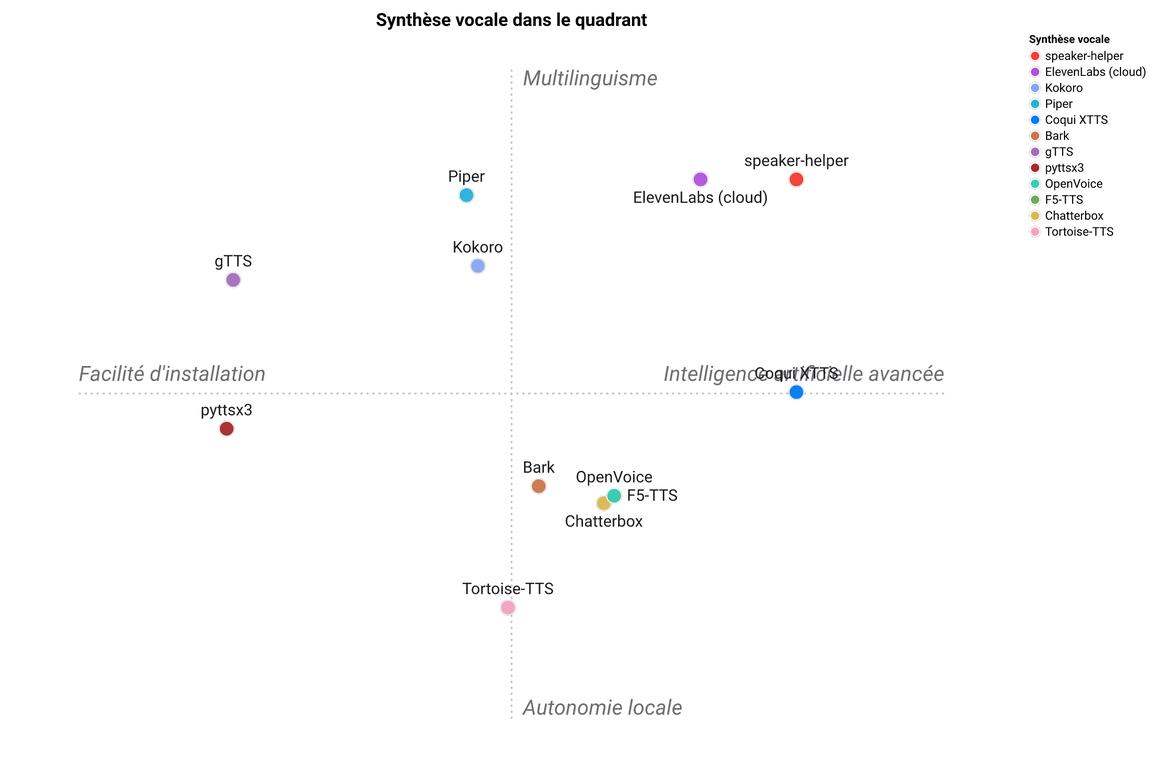
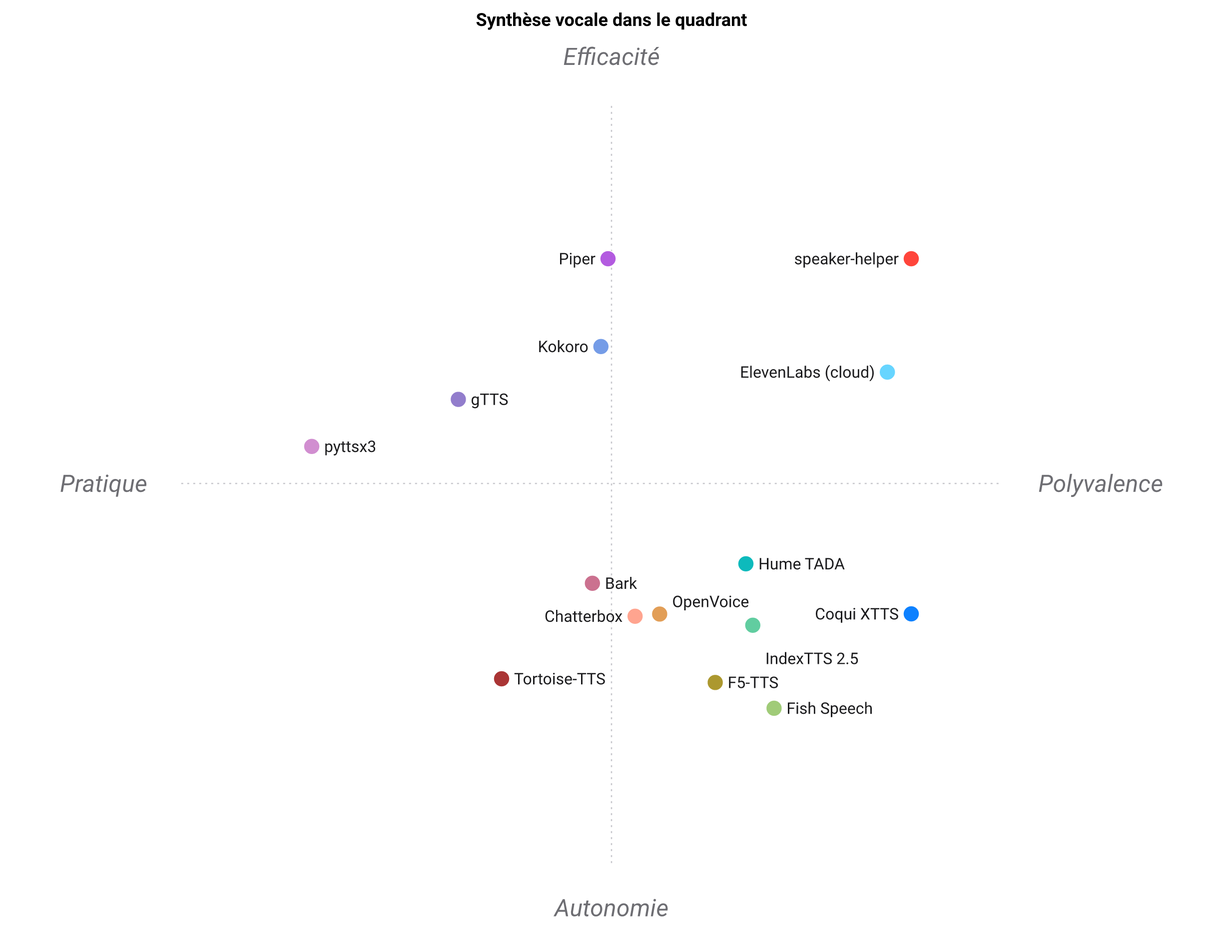
Paysage TTS : la licence devient un critère, plus trois moteurs de 2026
Le tableau datait du 2026-07-24 et n'avait aucun critère de licence, dans un
domaine où les moteurs qui clonent le mieux sont largement ceux qu'on n'a pas
le droit de livrer. Cette absence avait déjà produit une erreur dans la doc
publiée : « Coqui XTTS — vous voulez un seul moteur de clonage multilingue
solide et permissif » alors que les poids de XTTS v2 sont sous CPML, non
commerciale. Une affirmation de licence fausse est la seule erreur de ce
fichier qui puisse coûter de l'argent à quelqu'un : corrigée.

Ajout du critère « Licence commerciale » sur les quinze outils, chaque licence
vérifiée : Kokoro, Tortoise et IndexTTS 2.5 en Apache-2.0 ; Piper, OpenVoice v2,
Bark et Chatterbox en MIT, ce dernier avec sortie tatouée ; XTTS v2 en CPML,
F5-TTS avec des poids CC-BY-NC, Fish Speech S2 Pro non commercial ; TADA en
code MIT sur des poids Llama 3.2, d'où un 4 plutôt qu'un 5. gTTS garde un 2 :
code MIT sur un point d'entrée Google non documenté, soit un risque de CGU
plutôt qu'une licence.

Entrent Hume TADA, IndexTTS 2.5 et Fish Speech. L'idée que TADA apporte vaut
d'être retenue : générer texte et audio dans un seul flux synchronisé fait de
l'absence d'hallucination une propriété de conception, pas un score de
benchmark, à un facteur temps réel voisin de 0,09.

Nouvelle section « Sources et date de relevé » dans les deux langues, cinq
références. Un relevé de licences sans date de vérification ne permet pas de
dire s'il est encore vrai.

diff --git a/PAYSAGE.md b/PAYSAGE.md
@@ -7,7 +7,7 @@ l'espace « synthèse vocale locale et auto-hébergeable avec clonage de voix »
 comparés à `speaker-helper`. Les notes vont de ⭐ (1) à ⭐⭐⭐⭐⭐ (5), évaluées
 sur la tâche visée par `speaker-helper` : une synthèse vocale professionnelle
 qui tourne **hors-ligne sur un moteur local**, streame avec un faible temps
-jusqu'au premier son, **clone une voix** depuis une courte référence, et
+jusqu'au premier son, **clone une voix** depuis une courte référence et
 s'intègre à un pipeline d'IA via une API typée `dict`/`path` exposée sur
 plusieurs surfaces à la fois. Un projet optimisé pour un tout autre usage (une
 API cloud, une seule voix système, un checkpoint de recherche) n'est pas
@@ -16,20 +16,23 @@ pénalisé dans l'absolu : la note reflète seulement l'adéquation à *ce* cré
 ## En un coup d'œil
 
 <!-- TABLE:START -->
-| Synthèse vocale | Hors-ligne / local | Streaming | Clonage de voix | Multilingue | Ergonomie pipeline IA | Multi-surface | Installation légère |
-| --- | :---: | :---: | :---: | :---: | :---: | :---: | :---: |
-| **speaker-helper** | ⭐⭐⭐⭐⭐ | ⭐⭐⭐⭐⭐ | ⭐⭐⭐⭐⭐ | ⭐⭐⭐⭐⭐ | ⭐⭐⭐⭐⭐ | ⭐⭐⭐⭐⭐ | ⭐⭐⭐ |
-| Coqui XTTS | ⭐⭐⭐⭐⭐ | ⭐⭐⭐⭐ | ⭐⭐⭐⭐⭐ | ⭐⭐⭐⭐⭐ | ⭐⭐⭐ | ⭐ | ⭐ |
-| Piper | ⭐⭐⭐⭐⭐ | ⭐⭐⭐⭐ | ⭐ | ⭐⭐⭐⭐ | ⭐⭐⭐ | ⭐⭐ | ⭐⭐⭐⭐⭐ |
-| Kokoro | ⭐⭐⭐⭐⭐ | ⭐⭐⭐⭐ | ⭐ | ⭐⭐⭐⭐ | ⭐⭐⭐ | ⭐ | ⭐⭐⭐⭐ |
-| Chatterbox | ⭐⭐⭐⭐⭐ | ⭐⭐⭐ | ⭐⭐⭐⭐⭐ | ⭐⭐⭐ | ⭐⭐ | ⭐ | ⭐⭐ |
-| F5-TTS | ⭐⭐⭐⭐⭐ | ⭐⭐ | ⭐⭐⭐⭐⭐ | ⭐⭐⭐⭐ | ⭐⭐ | ⭐ | ⭐⭐ |
-| OpenVoice | ⭐⭐⭐⭐⭐ | ⭐⭐ | ⭐⭐⭐⭐⭐ | ⭐⭐⭐⭐ | ⭐⭐ | ⭐ | ⭐⭐ |
-| Bark | ⭐⭐⭐⭐⭐ | ⭐⭐ | ⭐⭐ | ⭐⭐⭐⭐ | ⭐⭐ | ⭐ | ⭐ |
-| Tortoise-TTS | ⭐⭐⭐⭐⭐ | ⭐ | ⭐⭐⭐⭐ | ⭐⭐ | ⭐⭐ | ⭐ | ⭐ |
-| pyttsx3 | ⭐⭐⭐⭐⭐ | ⭐ | ⭐ | ⭐⭐ | ⭐⭐ | ⭐ | ⭐⭐⭐⭐⭐ |
-| gTTS | ⭐ | ⭐ | ⭐ | ⭐⭐⭐⭐ | ⭐⭐ | ⭐ | ⭐⭐⭐⭐⭐ |
-| ElevenLabs (cloud) | ⭐ | ⭐⭐⭐⭐⭐ | ⭐⭐⭐⭐⭐ | ⭐⭐⭐⭐⭐ | ⭐⭐⭐ | ⭐⭐ | ⭐⭐⭐ |
+| Synthèse vocale | Hors-ligne / local | Streaming | Clonage de voix | Multilingue | Ergonomie pipeline IA | Multi-surface | Installation légère | Licence commerciale |
+| --- | :---: | :---: | :---: | :---: | :---: | :---: | :---: | :---: |
+| **speaker-helper** | ⭐⭐⭐⭐⭐ | ⭐⭐⭐⭐⭐ | ⭐⭐⭐⭐⭐ | ⭐⭐⭐⭐⭐ | ⭐⭐⭐⭐⭐ | ⭐⭐⭐⭐⭐ | ⭐⭐⭐ | ⭐⭐⭐⭐⭐ |
+| Coqui XTTS | ⭐⭐⭐⭐⭐ | ⭐⭐⭐⭐ | ⭐⭐⭐⭐⭐ | ⭐⭐⭐⭐⭐ | ⭐⭐⭐ | ⭐ | ⭐ | ⭐ |
+| Piper | ⭐⭐⭐⭐⭐ | ⭐⭐⭐⭐ | ⭐ | ⭐⭐⭐⭐ | ⭐⭐⭐ | ⭐⭐ | ⭐⭐⭐⭐⭐ | ⭐⭐⭐⭐⭐ |
+| Kokoro | ⭐⭐⭐⭐⭐ | ⭐⭐⭐⭐ | ⭐ | ⭐⭐⭐⭐ | ⭐⭐⭐ | ⭐ | ⭐⭐⭐⭐ | ⭐⭐⭐⭐⭐ |
+| Chatterbox | ⭐⭐⭐⭐⭐ | ⭐⭐⭐ | ⭐⭐⭐⭐⭐ | ⭐⭐⭐ | ⭐⭐ | ⭐ | ⭐⭐ | ⭐⭐⭐⭐⭐ |
+| F5-TTS | ⭐⭐⭐⭐⭐ | ⭐⭐ | ⭐⭐⭐⭐⭐ | ⭐⭐⭐⭐ | ⭐⭐ | ⭐ | ⭐⭐ | ⭐ |
+| OpenVoice | ⭐⭐⭐⭐⭐ | ⭐⭐ | ⭐⭐⭐⭐⭐ | ⭐⭐⭐⭐ | ⭐⭐ | ⭐ | ⭐⭐ | ⭐⭐⭐⭐⭐ |
+| Hume TADA | ⭐⭐⭐⭐⭐ | ⭐⭐⭐⭐⭐ | ⭐⭐⭐⭐ | ⭐⭐⭐⭐ | ⭐⭐ | ⭐ | ⭐⭐ | ⭐⭐⭐⭐ |
+| IndexTTS 2.5 | ⭐⭐⭐⭐⭐ | ⭐⭐⭐⭐ | ⭐⭐⭐⭐⭐ | ⭐⭐⭐⭐ | ⭐⭐ | ⭐ | ⭐ | ⭐⭐⭐⭐⭐ |
+| Fish Speech | ⭐⭐⭐⭐⭐ | ⭐⭐⭐ | ⭐⭐⭐⭐⭐ | ⭐⭐⭐⭐ | ⭐⭐ | ⭐ | ⭐ | ⭐ |
+| Bark | ⭐⭐⭐⭐⭐ | ⭐⭐ | ⭐⭐ | ⭐⭐⭐⭐ | ⭐⭐ | ⭐ | ⭐ | ⭐⭐⭐⭐⭐ |
+| Tortoise-TTS | ⭐⭐⭐⭐⭐ | ⭐ | ⭐⭐⭐⭐ | ⭐⭐ | ⭐⭐ | ⭐ | ⭐ | ⭐⭐⭐⭐⭐ |
+| pyttsx3 | ⭐⭐⭐⭐⭐ | ⭐ | ⭐ | ⭐⭐ | ⭐⭐ | ⭐ | ⭐⭐⭐⭐⭐ | ⭐⭐⭐⭐⭐ |
+| gTTS | ⭐ | ⭐ | ⭐ | ⭐⭐⭐⭐ | ⭐⭐ | ⭐ | ⭐⭐⭐⭐⭐ | ⭐⭐ |
+| ElevenLabs (cloud) | ⭐ | ⭐⭐⭐⭐⭐ | ⭐⭐⭐⭐⭐ | ⭐⭐⭐⭐⭐ | ⭐⭐⭐ | ⭐⭐ | ⭐⭐⭐ | ⭐⭐⭐ |
 <!-- TABLE:END -->
 
 ## Carte de positionnement
@@ -39,7 +42,13 @@ Représentation 2D du tableau ci-dessus.
 
 ![Carte de positionnement](https://raw.githubusercontent.com/warith-harchaoui/speaker-helper/main/assets/paysage.png)
 
-La carte est un résumé en 2D des 7 critères : à lire comme une forme, pas comme un classement. « speaker-helper » se situe dans le coin en haut à droite. Les axes se lisent **Horizontal — Facilité d'installation ↔ Intelligence artificielle avancée** et **Vertical — Autonomie locale ↔ Multilinguisme**.
+La carte est un résumé en 2D des 8 critères : à lire comme une forme, pas comme un classement. « speaker-helper » se situe dans le coin en haut à droite. Les axes se lisent **Horizontal : Pratique ↔ Polyvalence** et **Vertical : Autonomie ↔ Efficacité**.
+
+L'axe horizontal distingue principalement les solutions qui privilégient une utilisation très ciblée et spécialisée, à gauche, de celles qui cherchent à offrir une plus grande adaptabilité et une gamme de fonctionnalités plus large, à droite. La capacité à cloner des voix, la prise en charge de plusieurs langues et la facilité de diffusion en continu sont des atouts pour les options positionnées à droite, tandis que la simplicité d'installation et une ergonomie axée sur l'intelligence artificielle, ainsi qu'une compatibilité avec différents supports, favorisent une orientation plus pragmatique à gauche. On observe que speaker-helper se distingue en tant que leader sur cet axe, mais Coqui XTTS, ElevenLabs (cloud), Fish Speech, IndexTTS 2.5, Hume TADA, F5-TTS, OpenVoice et Chatterbox se regroupent du côté de la polyvalence, tandis que pyttsx3, gTTS, Tortoise-TTS, Bark, Kokoro et Piper se positionnent du côté de la pratique.
+
+L'axe vertical oppose, quant à lui, les solutions qui mettent l'accent sur la liberté d'utilisation et l'absence de contraintes, en bas, à celles qui visent une performance et une réactivité optimales, en haut. La facilité d'installation, une ergonomie intuitive et la compatibilité multi-surface sont des facteurs clés pour les options situées en haut, tandis que la capacité à fonctionner hors-ligne, la prise en charge de plusieurs langues et une installation simplifiée sont des atouts pour celles positionnées en bas. Ici encore, speaker-helper se démarque, mais Piper, Kokoro, pyttsx3 et gTTS se regroupent du côté de l'efficacité, tandis que Fish Speech, F5-TTS, Tortoise-TTS, IndexTTS 2.5, Chatterbox, OpenVoice, Coqui XTTS, Bark, Hume TADA se positionnent du côté de l'autonomie.
+
+On remarque que plusieurs options, comme Coqui XTTS, Chatterbox, F5-TTS, OpenVoice, Hume TADA, IndexTTS 2.5 et Fish Speech, se retrouvent dans le quadrant Polyvalence-Autonomie, bien que pour des raisons légèrement différentes : certaines excellent dans la reproduction de voix variées, tandis que d'autres privilégient une installation et une utilisation simplifiées. De même, Piper, Kokoro, pyttsx3 et gTTS se regroupent dans le quadrant Pratique-Efficacité, chacun apportant une solution simple et rapide pour la synthèse vocale, mais avec des performances variables.
 <!-- FIGURE:END -->
 
 ## Positionnement
@@ -60,10 +69,11 @@ manquante) et **quatre surfaces** synchronisées : Python, CLI, REST et une GUI 
 C'est un centre de gravité différent de celui du reste du domaine :
 
 - Les **projets-modèles** — Coqui XTTS, Chatterbox, F5-TTS, OpenVoice, Bark,
-  Tortoise — sont d'excellents *moteurs*. Ils clonent bien et tournent
+  Tortoise, puis depuis 2026 Hume TADA, IndexTTS 2.5 avec Fish Speech — sont
+  d'excellents *moteurs*. Ils clonent bien et tournent
   hors-ligne, mais chacun est une bibliothèque ou un checkpoint : pas de routeur
   inter-moteurs, pas de passerelle d'éval committée, pas de trio
-  CLI/REST/GUI, et une installation `torch` lourde. speaker-helper préfère en
+  CLI/REST/GUI et une installation `torch` lourde. speaker-helper préfère en
   *piloter* plusieurs derrière son protocole plutôt que d'en concurrencer un seul.
 - Les **moteurs rapides et légers** — Piper, Kokoro — gagnent sur le poids
   d'installation et le facteur temps réel (Kokoro synthétise bien sous le temps
@@ -75,7 +85,7 @@ C'est un centre de gravité différent de celui du reste du domaine :
   seule voix système ou un aller-retour cloud, sans clonage ; ElevenLabs est
   au meilleur niveau sur le streaming et la qualité de clonage,
   mais c'est un SaaS payant : il obtient ⭐ sur « hors-ligne / local » par
-  construction, et votre texte comme votre audio de référence quittent la machine.
+  construction et votre texte comme votre audio de référence quittent la machine.
 
 Là où `speaker-helper` gagne pour son créneau :
 
@@ -86,14 +96,29 @@ Là où `speaker-helper` gagne pour son créneau :
    seuils versionnés font échouer la CI en cas de synthèse lente, d'anomalie
    audio ou d'aller-retour cassé.
 3. **Un clonage qui va au bout.** Pointez vers un enregistrement : une
-   transcription manquante est produite, et les références trop longues sont
+   transcription manquante est produite et les références trop longues sont
    tronquées et ré-alignées automatiquement.
 4. **Un cœur, quatre surfaces.** Le même `Speaker` typé est accessible depuis
    Python, une CLI argparse *et* une CLI click, une API REST et une GUI web,
    sans dérive entre elles.
 
+**La licence est une entrée de routage, pas une note de bas de page.** C'est le
+critère qui manquait au tableau jusqu'au 2026-10-23 ; il rebat les cartes :
+les moteurs qui clonent le mieux sont largement ceux que vous n'avez pas le
+droit de livrer. XTTS v2 est sous CPML, F5-TTS publie du code MIT avec des
+poids CC-BY-NC, le S2 Pro de Fish Speech est non commercial — trois moteurs
+excellents, trois moteurs inutilisables dans un produit. Ce qui reste pour un
+travail commercial est plus étroit qu'un classement par qualité ne le laisse
+croire : Kokoro (Apache-2.0), Piper, OpenVoice v2, Bark (MIT), Tortoise
+(Apache-2.0), IndexTTS 2.5 (Apache-2.0), puis Chatterbox (MIT, avec sortie
+tatouée). Hume TADA tient le milieu : code MIT sur des poids sous Llama 3.2
+Community License, permissifs jusqu'à ce que vous soyez très gros. Un routeur
+qui n'optimiserait que la qualité vous tendrait une violation de licence avec
+une justification jointe : voilà pourquoi `commercial` se place à côté de
+`condition`, comme une contrainte énoncée.
+
 Le coût honnête est le **poids d'installation** (⭐⭐⭐) : un vrai moteur réclame
-`torch`, plus `ffmpeg` et `libsndfile` pour la plomberie audio, et un Voicebox en
+`torch`, plus `ffmpeg` et `libsndfile` pour la plomberie audio et un Voicebox en
 fonctionnement. C'est le prix à payer pour être la couche pipeline par-dessus de
 vrais moteurs neuronaux plutôt qu'un passe-plat OS d'un seul fichier.
 
@@ -101,26 +126,37 @@ vrais moteurs neuronaux plutôt qu'un passe-plat OS d'un seul fichier.
 
 - **`speaker-helper`** — vous voulez une TTS hors-ligne, en streaming et
   clonable, câblée dans un pipeline d'IA : une API typée `dict`/`path`, un routeur
-  qui choisit le moteur pour vous, une passerelle d'éval en CI, et la même chose
+  qui choisit le moteur pour vous, une passerelle d'éval en CI et la même chose
   en CLI / REST / GUI. C'est le pendant naturel de `vocal-helper`
   (parole→texte) : la jambe texte→parole.
-- **Coqui XTTS** — vous voulez un seul moteur de clonage multilingue solide et
-  permissif comme bibliothèque, et vous construirez vous-même le service,
-  l'aiguillage et l'évaluation autour (ou vous laissez speaker-helper le piloter
-  derrière le protocole).
+- **Coqui XTTS** — vous voulez la plus large couverture multilingue en clonage
+  comme bibliothèque, **votre usage n'est pas commercial** (ses poids sont sous
+  CPML, pas sous une licence permissive) et vous construirez vous-même le
+  service, l'aiguillage puis l'évaluation autour (ou vous laissez
+  speaker-helper le piloter derrière le protocole).
 - **Chatterbox / F5-TTS / OpenVoice** — la fidélité du clonage prime et
   vous pouvez absorber une installation lourde et écrire la glue vous-même.
 - **Kokoro / Piper** — vous avez besoin d'une voix légère, temps réel et adaptée
-  au CPU, et vous n'avez *pas* besoin de clonage ; Kokoro est exactement ce vers
+  au CPU et vous n'avez *pas* besoin de clonage ; Kokoro est exactement ce vers
   quoi speaker-helper aiguille en conditions temps réel.
+- **Hume TADA** — vous voulez un flux qui ne peut pas halluciner : le texte avec
+  l'audio sont générés dans un seul flux synchronisé, ce qui relève de la
+  conception plutôt que d'un artefact de mesure, à un facteur temps réel voisin
+  de 0,09 et avec un contexte qui tient des minutes d'audio au lieu de
+  secondes. Lisez les termes Llama 3.2 si vous opérez à grande échelle.
+- **IndexTTS 2.5** — clonage zéro-coup avec contrôle explicite de l'émotion puis
+  de la vitesse, flux à texte synchronisé, poids en Apache-2.0 : l'option
+  permissive quand la qualité du clonage compte autant que le droit de livrer.
+- **Fish Speech** — vous vous mesurez au plafond de qualité et le travail est de
+  la recherche ou du personnel ; la licence exclut un produit.
 - **Bark / Tortoise-TTS** — génération hors-ligne expressive ou haute-fidélité
   quand la latence importe peu (Tortoise est lent, Bark ne streame pas vraiment).
 - **pyttsx3** — vous voulez une voix système entièrement hors-ligne, sans modèle,
   sans téléchargement ni clonage.
 - **gTTS** — un script jetable où un aller-retour cloud et une seule voix standard
-  suffisent, et où la confidentialité n'est pas un enjeu.
+  suffisent et où la confidentialité n'est pas un enjeu.
 - **ElevenLabs (cloud)** — qualité de streaming et de clonage au plus haut niveau
-  sans installation locale, et envoyer texte et audio de référence à une API
+  sans installation locale et envoyer texte et audio de référence à une API
   payante ne pose pas de problème.
 
 ## Pourquoi il n'y a pas de `speaker-helper-rs`
@@ -132,14 +168,14 @@ laissé de côté.
 
 Leur règle de périmètre : **envelopper un binaire système, ne pas
 réimplémenter la partie lourde.** `audio-helper-rs` porte le sondage, la
-conversion, le découpage et la concaténation par-dessus `ffmpeg`, et ne porte
+conversion, le découpage et la concaténation par-dessus `ffmpeg` et ne porte
 explicitement ni la séparation de sources Demucs ni la similarité MFCC, parce
 que les deux demandent une vraie pile d'apprentissage, disproportionnée à la
 promesse du crate. `youtube-helper-rs` enveloppe `yt-dlp` au lieu de le
 réécrire.
 
 Ici, la partie lourde est la seule partie. La synthèse, c'est de l'inférence
-ONNX plus la phonémisation espeak-ng, et il n'existe aucun binaire `kokoro` à
+ONNX plus la phonémisation espeak-ng et il n'existe aucun binaire `kokoro` à
 envelopper. Un portage voudrait dire le crate `ort` plus une liaison FFI vers
 espeak — réimplémenter précisément ce que ces crates ont décidé de ne pas
 faire.
@@ -160,3 +196,16 @@ nommer. Si cela se révèle souhaitable un jour, c'est là que ça va.
 
 Cette entrée existe pour que la question soit tranchée une fois plutôt que
 rouverte.
+
+## Sources et date de relevé
+
+Les notes des moteurs ainsi que chaque licence ci-dessus ont été vérifiées le
+**2026-10-23**. Les licences changent au fil des versions ; une affirmation
+de licence périmée est la seule erreur d'ici qui puisse coûter de l'argent à
+quelqu'un : la date fait partie de l'affirmation.
+
+- [Best open-source TTS models, compared by license](https://www.cartesia.ai/learn/open-source-tts) — Cartesia
+- [9 best open source text-to-speech models in 2026](https://www.bland.ai/blog/best-open-source-text-to-speech-model) — Bland
+- [Open-sourcing TADA](https://www.hume.ai/blog/opensource-tada) — Hume AI
+- [Faster IndexTTS-2: accelerating and streaming autoregressive zero-shot TTS](https://arxiv.org/html/2607.21042v1) — arXiv
+- [Deploying open-source TTS on GPU cloud](https://www.spheron.network/blog/deploy-open-source-tts-gpu-cloud-2026/) — Spheron

diff --git a/LANDSCAPE.md b/LANDSCAPE.md
@@ -15,20 +15,23 @@ not penalised in the abstract — the score just reflects fit to *this* niche.
 ## At a glance
 
 <!-- TABLE:START -->
-| Speech Synthesis | Offline / local | Streaming | Voice cloning | Multilingual | AI-pipeline ergonomics | Multi-surface | Light install |
-| --- | :---: | :---: | :---: | :---: | :---: | :---: | :---: |
-| **speaker-helper** | ⭐⭐⭐⭐⭐ | ⭐⭐⭐⭐⭐ | ⭐⭐⭐⭐⭐ | ⭐⭐⭐⭐⭐ | ⭐⭐⭐⭐⭐ | ⭐⭐⭐⭐⭐ | ⭐⭐⭐ |
-| Coqui XTTS | ⭐⭐⭐⭐⭐ | ⭐⭐⭐⭐ | ⭐⭐⭐⭐⭐ | ⭐⭐⭐⭐⭐ | ⭐⭐⭐ | ⭐ | ⭐ |
-| Piper | ⭐⭐⭐⭐⭐ | ⭐⭐⭐⭐ | ⭐ | ⭐⭐⭐⭐ | ⭐⭐⭐ | ⭐⭐ | ⭐⭐⭐⭐⭐ |
-| Kokoro | ⭐⭐⭐⭐⭐ | ⭐⭐⭐⭐ | ⭐ | ⭐⭐⭐⭐ | ⭐⭐⭐ | ⭐ | ⭐⭐⭐⭐ |
-| Chatterbox | ⭐⭐⭐⭐⭐ | ⭐⭐⭐ | ⭐⭐⭐⭐⭐ | ⭐⭐⭐ | ⭐⭐ | ⭐ | ⭐⭐ |
-| F5-TTS | ⭐⭐⭐⭐⭐ | ⭐⭐ | ⭐⭐⭐⭐⭐ | ⭐⭐⭐⭐ | ⭐⭐ | ⭐ | ⭐⭐ |
-| OpenVoice | ⭐⭐⭐⭐⭐ | ⭐⭐ | ⭐⭐⭐⭐⭐ | ⭐⭐⭐⭐ | ⭐⭐ | ⭐ | ⭐⭐ |
-| Bark | ⭐⭐⭐⭐⭐ | ⭐⭐ | ⭐⭐ | ⭐⭐⭐⭐ | ⭐⭐ | ⭐ | ⭐ |
-| Tortoise-TTS | ⭐⭐⭐⭐⭐ | ⭐ | ⭐⭐⭐⭐ | ⭐⭐ | ⭐⭐ | ⭐ | ⭐ |
-| pyttsx3 | ⭐⭐⭐⭐⭐ | ⭐ | ⭐ | ⭐⭐ | ⭐⭐ | ⭐ | ⭐⭐⭐⭐⭐ |
-| gTTS | ⭐ | ⭐ | ⭐ | ⭐⭐⭐⭐ | ⭐⭐ | ⭐ | ⭐⭐⭐⭐⭐ |
-| ElevenLabs (cloud) | ⭐ | ⭐⭐⭐⭐⭐ | ⭐⭐⭐⭐⭐ | ⭐⭐⭐⭐⭐ | ⭐⭐⭐ | ⭐⭐ | ⭐⭐⭐ |
+| Speech Synthesis | Offline / local | Streaming | Voice cloning | Multilingual | AI-pipeline ergonomics | Multi-surface | Light install | Commercial licence |
+| --- | :---: | :---: | :---: | :---: | :---: | :---: | :---: | :---: |
+| **speaker-helper** | ⭐⭐⭐⭐⭐ | ⭐⭐⭐⭐⭐ | ⭐⭐⭐⭐⭐ | ⭐⭐⭐⭐⭐ | ⭐⭐⭐⭐⭐ | ⭐⭐⭐⭐⭐ | ⭐⭐⭐ | ⭐⭐⭐⭐⭐ |
+| Coqui XTTS | ⭐⭐⭐⭐⭐ | ⭐⭐⭐⭐ | ⭐⭐⭐⭐⭐ | ⭐⭐⭐⭐⭐ | ⭐⭐⭐ | ⭐ | ⭐ | ⭐ |
+| Piper | ⭐⭐⭐⭐⭐ | ⭐⭐⭐⭐ | ⭐ | ⭐⭐⭐⭐ | ⭐⭐⭐ | ⭐⭐ | ⭐⭐⭐⭐⭐ | ⭐⭐⭐⭐⭐ |
+| Kokoro | ⭐⭐⭐⭐⭐ | ⭐⭐⭐⭐ | ⭐ | ⭐⭐⭐⭐ | ⭐⭐⭐ | ⭐ | ⭐⭐⭐⭐ | ⭐⭐⭐⭐⭐ |
+| Chatterbox | ⭐⭐⭐⭐⭐ | ⭐⭐⭐ | ⭐⭐⭐⭐⭐ | ⭐⭐⭐ | ⭐⭐ | ⭐ | ⭐⭐ | ⭐⭐⭐⭐⭐ |
+| F5-TTS | ⭐⭐⭐⭐⭐ | ⭐⭐ | ⭐⭐⭐⭐⭐ | ⭐⭐⭐⭐ | ⭐⭐ | ⭐ | ⭐⭐ | ⭐ |
+| OpenVoice | ⭐⭐⭐⭐⭐ | ⭐⭐ | ⭐⭐⭐⭐⭐ | ⭐⭐⭐⭐ | ⭐⭐ | ⭐ | ⭐⭐ | ⭐⭐⭐⭐⭐ |
+| Hume TADA | ⭐⭐⭐⭐⭐ | ⭐⭐⭐⭐⭐ | ⭐⭐⭐⭐ | ⭐⭐⭐⭐ | ⭐⭐ | ⭐ | ⭐⭐ | ⭐⭐⭐⭐ |
+| IndexTTS 2.5 | ⭐⭐⭐⭐⭐ | ⭐⭐⭐⭐ | ⭐⭐⭐⭐⭐ | ⭐⭐⭐⭐ | ⭐⭐ | ⭐ | ⭐ | ⭐⭐⭐⭐⭐ |
+| Fish Speech | ⭐⭐⭐⭐⭐ | ⭐⭐⭐ | ⭐⭐⭐⭐⭐ | ⭐⭐⭐⭐ | ⭐⭐ | ⭐ | ⭐ | ⭐ |
+| Bark | ⭐⭐⭐⭐⭐ | ⭐⭐ | ⭐⭐ | ⭐⭐⭐⭐ | ⭐⭐ | ⭐ | ⭐ | ⭐⭐⭐⭐⭐ |
+| Tortoise-TTS | ⭐⭐⭐⭐⭐ | ⭐ | ⭐⭐⭐⭐ | ⭐⭐ | ⭐⭐ | ⭐ | ⭐ | ⭐⭐⭐⭐⭐ |
+| pyttsx3 | ⭐⭐⭐⭐⭐ | ⭐ | ⭐ | ⭐⭐ | ⭐⭐ | ⭐ | ⭐⭐⭐⭐⭐ | ⭐⭐⭐⭐⭐ |
+| gTTS | ⭐ | ⭐ | ⭐ | ⭐⭐⭐⭐ | ⭐⭐ | ⭐ | ⭐⭐⭐⭐⭐ | ⭐⭐ |
+| ElevenLabs (cloud) | ⭐ | ⭐⭐⭐⭐⭐ | ⭐⭐⭐⭐⭐ | ⭐⭐⭐⭐⭐ | ⭐⭐⭐ | ⭐⭐ | ⭐⭐⭐ | ⭐⭐⭐ |
 <!-- TABLE:END -->
 
 ## Positioning map
@@ -38,7 +41,13 @@ not penalised in the abstract — the score just reflects fit to *this* niche.
 
 ![Positioning map](https://raw.githubusercontent.com/warith-harchaoui/speaker-helper/main/assets/landscape.png)
 
-The map is a 2-D summary of the seven criteria, so read it as a shape, not a scoreboard. `speaker-helper` is at the top-right corner. The axes read **Horizontal — Compact ↔ Versatile** and **Vertical — Self-sufficient ↔ Efficient**.
+The map is a 2-D summary of the eight criteria, so read it as a shape, not a scoreboard. `speaker-helper` is at the top-right corner. The axes read **Horizontal: Practicality ↔ Versatility** and **Vertical: Autonomy ↔ Efficiency**.
+
+The map reveals a clear distinction between approaches prioritizing ease of use and those emphasizing broader capabilities. Options clustered on the left side of the map generally excel in straightforward application and deployment, with factors like ease of installation and a simple AI pipeline being key drivers. Conversely, those on the right side demonstrate a greater breadth of functionality, often incorporating features like multilingual support and streaming capabilities, though this sometimes comes at the cost of immediate practicality.
+
+Several options find themselves grouped together in the lower right corner, suggesting a shared focus on versatility and a degree of independence from centralized services. These include Coqui XTTS, Fish Speech, and Hume TADA, all offering a wider range of features but potentially requiring more technical setup. Interestingly, speaker-helper occupies the upper right corner, demonstrating a strong balance of both versatility and efficiency, a position it holds while others, like the options in the lower left, prioritize autonomy over streamlined operation.
+
+The upper left quadrant showcases a different set of strengths, with Piper, Kokoro, pyttsx3, and gTTS all performing well in terms of efficiency and ease of use. While speaker-helper leads overall, these options represent a compelling alternative for users who value a quick and reliable experience above all else. The divergence in positioning highlights that there is no single "best" option; the ideal choice depends heavily on the specific priorities of the user.
 <!-- FIGURE:END -->
 
 ## Positioning
@@ -58,7 +67,8 @@ in lock-step — Python, CLI, REST, and a web GUI.
 That is a different centre of gravity from the field:
 
 - The **model projects** — Coqui XTTS, Chatterbox, F5-TTS, OpenVoice, Bark,
-  Tortoise — are excellent *engines*. They clone well and run offline, but each
+  Tortoise, and from 2026 Hume TADA, IndexTTS 2.5 and Fish Speech — are
+  excellent *engines*. They clone well and run offline, but each
   is a library or checkpoint: no cross-engine router, no committed eval gate, no
   CLI/REST/GUI trio, and a heavy `torch` install. speaker-helper is happy
   to *drive* several of them behind its protocol rather than compete with any one.
@@ -84,6 +94,19 @@ Where `speaker-helper` uniquely wins for its niche:
    Python, an argparse *and* a click CLI, a REST API, and a web GUI — no
    drift between them.
 
+**The licence is a routing input, not a footnote.** This is the criterion the
+table was missing until 2026-10-23, and it reorders the field: the engines that
+clone best are largely the ones you may not ship. XTTS v2 is CPML, F5-TTS
+publishes MIT code with CC-BY-NC weights, and Fish Speech's S2 Pro is
+non-commercial — all three are excellent and all three are unusable in a
+product. What is left for commercial work is narrower than a quality ranking
+suggests: Kokoro (Apache-2.0), Piper, OpenVoice v2, Bark (MIT), Tortoise
+(Apache-2.0), IndexTTS 2.5 (Apache-2.0), and Chatterbox (MIT, with watermarked
+output). Hume TADA sits in between — MIT code over weights under the Llama 3.2
+Community License, permissive until you are very large. A router that optimised
+quality alone would hand you a licence violation with a justification attached,
+which is why `commercial` belongs beside `condition` as a stated constraint.
+
 The honest cost is **install weight** (⭐⭐⭐): a real engine wants `torch`, plus
 `ffmpeg` and `libsndfile` for the audio plumbing, and a running Voicebox. That
 is the price of being the pipeline layer over real neural engines rather than a
@@ -95,14 +118,25 @@ one-file OS shim.
   AI pipeline: a typed `dict`/`path` API, a router that picks the engine for you,
   an eval gate in CI, and the same thing over CLI / REST / GUI. Especially
   the natural pair for `vocal-helper` (speech→text) — this is the text→speech leg.
-- **Coqui XTTS** — you want one strong, permissive multilingual cloning engine as
-  a library and will build your own serving, routing, and evaluation around it
-  (or let speaker-helper drive it behind the protocol).
+- **Coqui XTTS** — you want the widest multilingual cloning coverage as a
+  library, **your use is non-commercial** (its weights are CPML, not a
+  permissive licence), and you will build your own serving, routing and
+  evaluation around it (or let speaker-helper drive it behind the protocol).
 - **Chatterbox / F5-TTS / OpenVoice** — cloning fidelity is the priority and you
   can absorb a heavy install and write the glue yourself.
 - **Kokoro / Piper** — you need a light, real-time, CPU-friendly voice and do
   *not* need cloning; Kokoro is exactly what speaker-helper routes to for
   real-time conditions.
+- **Hume TADA** — you want streaming that cannot hallucinate: text and audio are
+  generated in one synchronised stream, which is the point of the design rather
+  than a benchmark artefact, at a real-time factor near 0.09 and with a context
+  holding minutes of audio instead of seconds. Read the Llama 3.2 terms if you
+  are operating at scale.
+- **IndexTTS 2.5** — zero-shot cloning with explicit emotion and speed control,
+  streaming with synchronised text, and Apache-2.0 weights: the permissive
+  option when cloning quality matters and shipping matters equally.
+- **Fish Speech** — you are benchmarking against the quality ceiling and the
+  work is research or personal; the licence rules out a product.
 - **Bark / Tortoise-TTS** — expressive or high-fidelity offline generation where
   latency does not matter (Tortoise is slow, Bark does not truly stream).
 - **pyttsx3** — you want a zero-model, fully offline OS voice with no downloads
@@ -142,3 +176,15 @@ arithmetic sitting beside `audio-helper-rs`, and calling it a *speaker* helper
 would misname it. If it is ever wanted, it belongs there.
 
 This entry exists so the question is answered once rather than re-litigated.
+
+## Sources and as-of date
+
+Engine ratings and every licence above were checked on **2026-10-23**. Licences
+change with releases and a stale licence claim is the one error here that can
+cost a user money, so the date is part of the claim.
+
+- [Best open-source TTS models, compared by license](https://www.cartesia.ai/learn/open-source-tts) — Cartesia
+- [9 best open source text-to-speech models in 2026](https://www.bland.ai/blog/best-open-source-text-to-speech-model) — Bland
+- [Open-sourcing TADA](https://www.hume.ai/blog/opensource-tada) — Hume AI
+- [Faster IndexTTS-2: accelerating and streaming autoregressive zero-shot TTS](https://arxiv.org/html/2607.21042v1) — arXiv
+- [Deploying open-source TTS on GPU cloud](https://www.spheron.network/blog/deploy-open-source-tts-gpu-cloud-2026/) — Spheron
